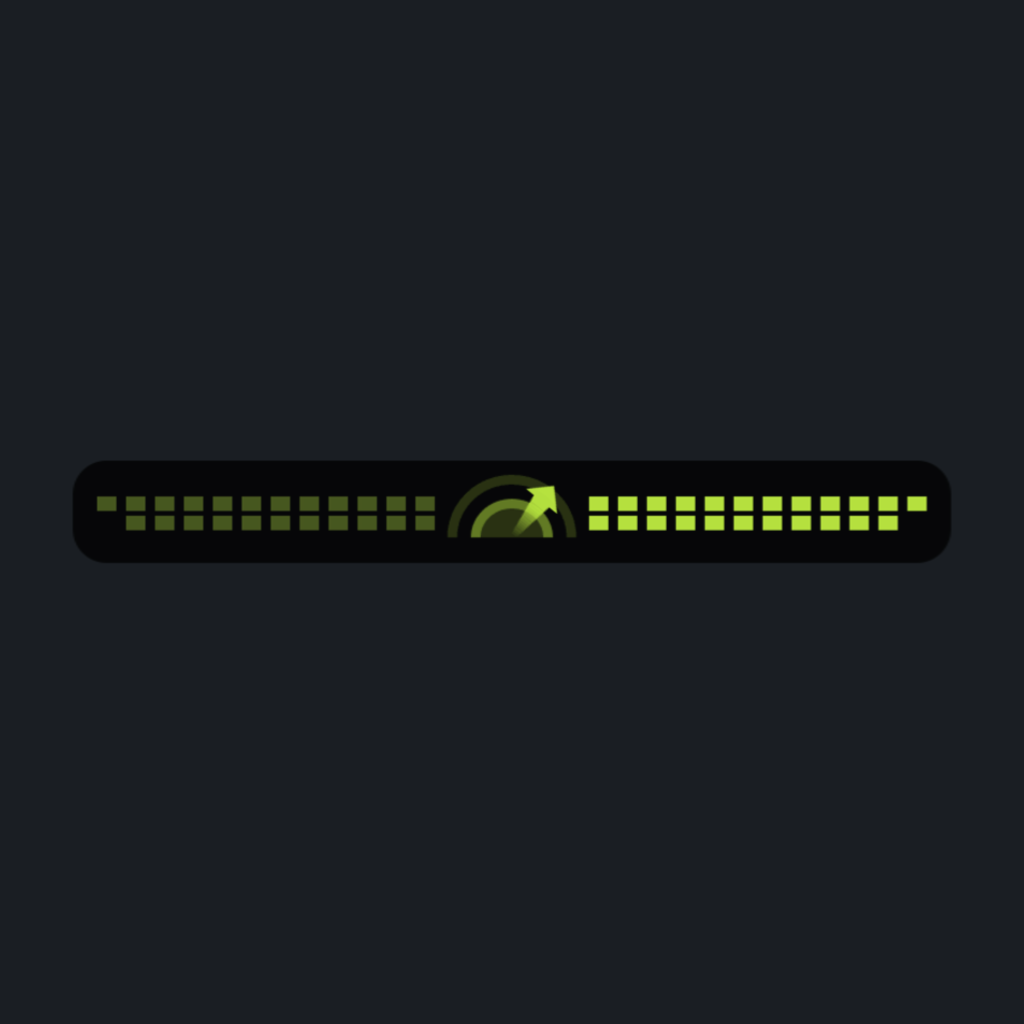
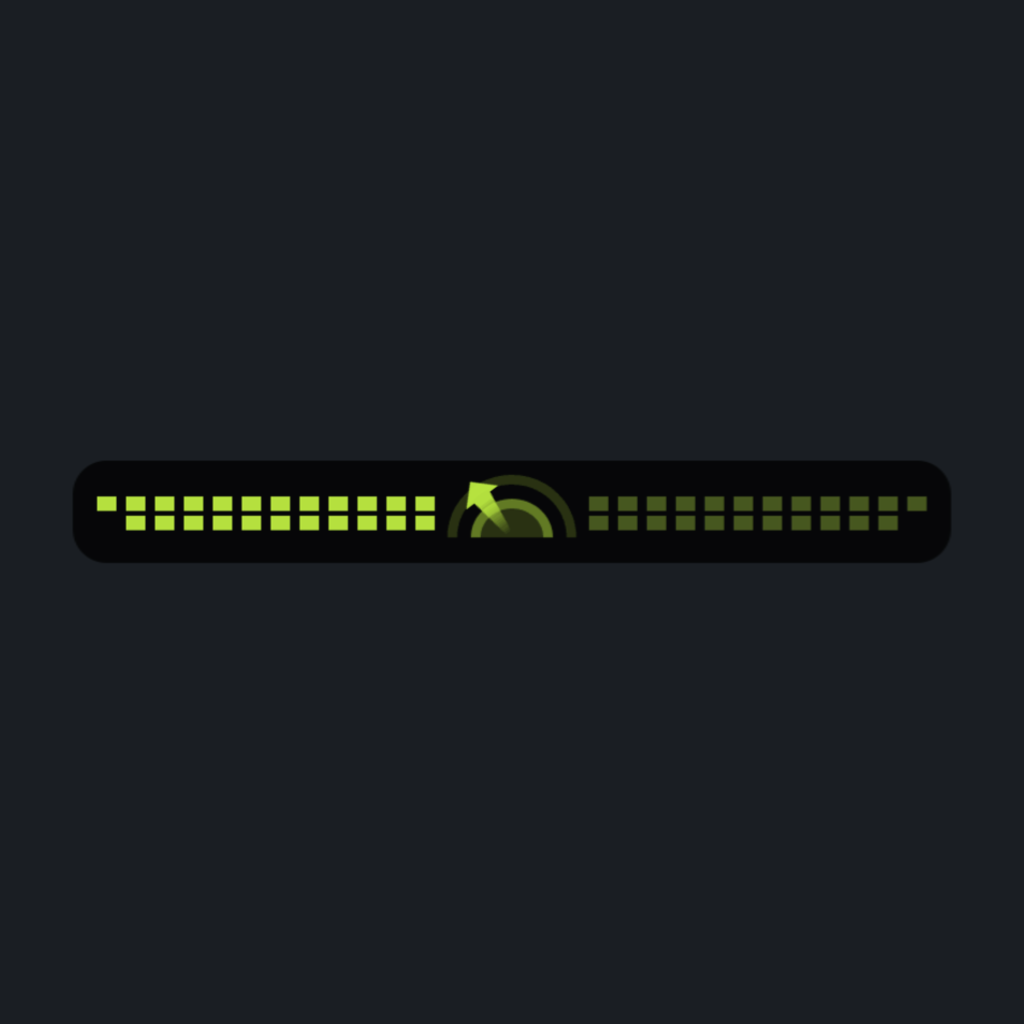
NFSMW-Upper Radar: only trouble in front; fastest pulse every 130 ms; README on sound
Trouble further along the lap that lies behind the car (more than 90 degrees
from straight ahead) is left out. At the trouble the bar pulses every 130 ms.
The README tells what the radar shows, its sound settings and where it may
sound (overlay.soundAllowed).

Changed region(s): [[0.0938, 0.4688, 0.9062, 0.5312]]

diff --git a/racelink/src/renderer/widgets/overlays/nfsmw-upper-radar/radar.test.ts b/racelink/src/renderer/widgets/overlays/nfsmw-upper-radar/radar.test.ts
@@ -5,6 +5,7 @@ import {
   approachAngle,
   darkMs,
   farSideLevel,
+  isInFront,
   fillMs,
   ledColumns,
   litAt,
@@ -34,7 +35,7 @@ test('far away the bar stands full; closer it pulses, more often as the trouble 
   assert.ok(slow !== null && edge !== null && fast !== null && touching !== null);
   assert.ok(slow > edge && edge > fast && fast > touching);
   assert.equal(edge, 600);
-  assert.equal(touching, 155);
+  assert.equal(touching, 130);
   // Even the fastest pulse has time to fill the bar.
   assert.ok(touching > darkMs + fillMs);
   assert.equal(pulsePeriodMs(Number.NaN, 250, 600), null);
@@ -44,6 +45,20 @@ test('a near edge beyond the far edge still pulses near the trouble', () => {
   const period = pulsePeriodMs(100, 900, 300);
   assert.ok(period !== null && period < 600);
   assert.equal(pulsePeriodMs(400, 900, 300), null);
+});
+
+test('trouble behind the car is left out', () => {
+  const at = (bearingDegrees: number | null) => ({
+    distanceMeters: 200,
+    bearingDegrees,
+    direction: null,
+  });
+  assert.equal(isInFront(at(null)), true);
+  assert.equal(isInFront(at(0)), true);
+  assert.equal(isInFront(at(-90)), true);
+  assert.equal(isInFront(at(120)), false);
+  assert.equal(isInFront(at(-179)), false);
+  assert.equal(isInFront(at(Number.NaN)), true);
 });
 
 test('the side of the trouble burns brighter', () => {

diff --git a/racelink/src/renderer/widgets/overlays/nfsmw-upper-radar/App.tsx b/racelink/src/renderer/widgets/overlays/nfsmw-upper-radar/App.tsx
@@ -15,7 +15,15 @@ import {
   stage,
   type Placed,
 } from './layout';
-import { approach, approachAngle, Pulser, pulsePeriodMs, sideLevels, type Hazard } from './radar';
+import {
+  approach,
+  approachAngle,
+  isInFront,
+  Pulser,
+  pulsePeriodMs,
+  sideLevels,
+  type Hazard,
+} from './radar';
 import { loadBeep, playBeep } from './sound';
 import { loadRadarTextures, radarTexture, radarTexturesReady } from './textures';
 
@@ -79,6 +87,9 @@ const drawPlaced = (
   context.restore();
 };
 
+/** The trouble if it is in front of the car; null when it lies behind. */
+const inFront = (hazard: Hazard): Hazard | null => (isInFront(hazard) ? hazard : null);
+
 /** NFSMW-Upper Radar: the game's radar detector, warning of trouble on the track ahead. */
 export default function App() {
   const overlay = useRacingOverlay(topics);
@@ -90,11 +101,11 @@ export default function App() {
     hazard: overlay.editMode
       ? editSample
       : hazardAhead
-        ? {
+        ? inFront({
             distanceMeters: hazardAhead.distanceMeters,
             bearingDegrees: hazardAhead.bearingDegrees ?? null,
             direction: hazardAhead.direction ?? null,
-          }
+          })
         : null,
     near: num(values, 'nearMeters', 250),
     far: num(values, 'farMeters', 600),

diff --git a/racelink/src/renderer/widgets/overlays/nfsmw-upper-radar/radar.ts b/racelink/src/renderer/widgets/overlays/nfsmw-upper-radar/radar.ts
@@ -13,7 +13,7 @@ export const darkMs = 17;
 /** Then it fills from the dome outwards in this long (measured in the game: 6 frames). */
 export const fillMs = 100;
 /** Time between pulses at the trouble, at the near edge and at the far edge (ms). */
-const touchingMs = 155;
+const touchingMs = 130;
 const nearMs = 600;
 const farMs = 1400;
 /** Brightness of the side away from the trouble. */
@@ -28,6 +28,19 @@ export interface Hazard {
 }
 
 const clamp = (value: number, min: number, max: number) => Math.min(max, Math.max(min, value));
+
+/** Further round than this from straight ahead the trouble is behind the car (degrees). */
+export const behindDegrees = 90;
+
+/**
+ * The radar warns only of trouble in front: a car further along the lap that
+ * lies behind the car (a hairpin, a car spun back towards it) is left out.
+ * Without a direction (the game gives none) the trouble counts as ahead.
+ */
+export const isInFront = (hazard: Hazard): boolean =>
+  hazard.bearingDegrees === null ||
+  !Number.isFinite(hazard.bearingDegrees) ||
+  Math.abs(hazard.bearingDegrees) <= behindDegrees;
 
 /**
  * Time between pulses (ms): often closer than `near`, less often closer than

diff --git a/overlays/nfsmw-upper-radar/README.md b/overlays/nfsmw-upper-radar/README.md
@@ -1,6 +1,39 @@
 # NFSMW-Upper Radar
 
-A Racelink overlay.
+The radar detector under the mirror from NFS:MW 2005, as a Racelink overlay:
+it warns of trouble on the track ahead (`session.hazardAhead`: a car stopped,
+crawling, going backwards or stranded off the track, within 1000 m).
+
+## What it shows
+
+- **Pulses, as in the game.** Every pulse the bar goes dark for a frame and
+  fills again from the dome outwards in 100 ms, then stays full. The distance
+  sets only how often it pulses: every 130 ms at the trouble, 600 ms at the
+  near edge (`nearMeters`, 250 m), 1.4 s at the far edge (`farMeters`, 600 m).
+  Further away the bar just glows.
+- **The arrow** in the dome points to the trouble and the lights on its side
+  burn brighter (`bearingDegrees`, `direction`: iRacing and Le Mans Ultimate;
+  elsewhere the arrow points ahead). `showArrow` turns this off.
+- **Only trouble in front.** Trouble further along the lap that lies behind
+  the car (more than 90° from straight ahead) is left out.
+
+## Sound
+
+The game's own radar beep (`FX_Radar`) plays at the start of every pulse;
+the steady glow far away is silent.
+
+| Setting       | Default | What it does                                                          |
+| ------------- | ------- | --------------------------------------------------------------------- |
+| `sound`       | on      | The beep                                                              |
+| `soundInDemo` | off     | The beep in demo mode too                                             |
+| `volume`      | 70 %    | Loudness of the beep (Racelink has no volume of its own for overlays) |
+
+Where it may sound is the SDK's `overlay.soundAllowed`: over the game, on a
+stream page (OBS) and in a browser (`npm run dev`, `?demo=iracing`), but never
+inside Racelink's window (previews, "Add overlay", Studio, the clip player) nor
+while the layout is edited.
+
+## Develop
 
 ```bash
 npm install
@@ -9,14 +42,8 @@ npm run build     # builds and checks the package in dist/
 npm run validate  # runs the same checks Racelink runs before publishing
 ```
 
-- `racelink.overlay.json` — name, version, games, size and the settings schema.
-  Editing it regenerates `src/racelink-settings.ts`.
-- `src/App.tsx` — the overlay; `src/useOverlay.ts` wraps `createOverlay` for React.
-- `preview/preview.png` — the Workshop image; capture it in Racelink Studio.
-
-While `npm run dev` runs, the project is listed in Racelink Studio. Build it, then
-check it, capture a preview and publish there.
-The first publish writes `workshop.publishedFileId` into the manifest; later
-publishes update the same Workshop item.
+The code is in `racelink/src/renderer/widgets/overlays/nfsmw-upper-radar/` at
+the repository root: `radar.ts` (the pulses, tested by `npm test`), `layout.ts`
+(the game's layout), `sound.ts`, `App.tsx`.
 
 Docs: `node_modules/@racelink/overlay/docs/README.md`.
